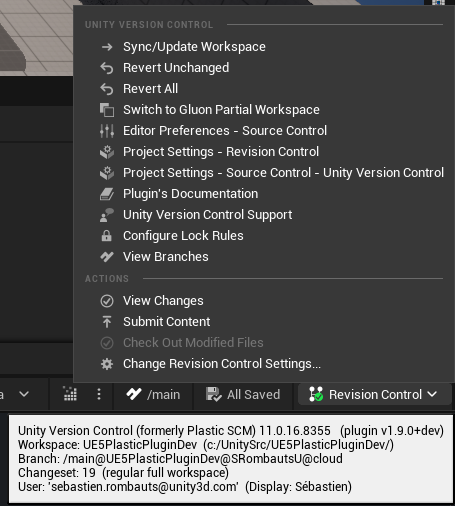
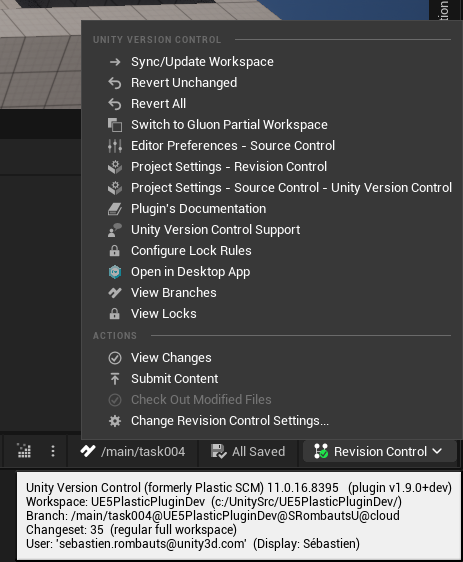
Update README.md with a screenshot of the new View Locks window.
Also updated the Revision Control menu to show tht View Locks entry under the View Branches

Changed region(s): [[0.0, 0.0, 1.0, 1.0], [0.1538, 0.2964, 0.1846, 0.3261]]

diff --git a/README.md b/README.md
@@ -407,7 +407,7 @@ Warning when trying to modify an asset that has been modified in another branch:
 
 #### Branches
 
-The plugin now offers full support for branches, including the ability to create, switch to and merge branches from within the Unreal Editor,
+The plugin now offers full support for branches, with a new window to list and filter them, and the ability to create, switch to and merge branches from within the Unreal Editor,
 reloading assets and the current level as appropriate.
 
 To open it, use the "View Branches" menu item in the Revision Control menu, or click on the name of the current branch in the status bar.
@@ -432,6 +432,13 @@ Deleting the selected branches:
 #### SmartLocks
 
 [Meet Smart Locks, a new way to reduce merge conflicts with Unity Version Control](https://blog.unity.com/engine-platform/unity-version-control-smart-locks)
+
+The plugin now offers full support for Smart Locks, with a new window to list and filter them, and the ability to release or remove them selectively.
+
+To open it, use the "View Locks" menu item in the Revision Control menu.
+
+View Locks window:
+![View Locks window](Screenshots/UEPlasticPlugin-Locks-Menu.png)
 
 Smart Locks administrator context menu to configure lock rules or unlock an asset:
 ![Smart Locks admin context menu](Screenshots/UEPlasticPlugin-SmartLocks-Menu.png)
